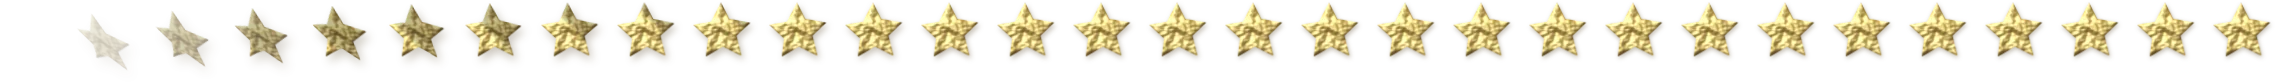
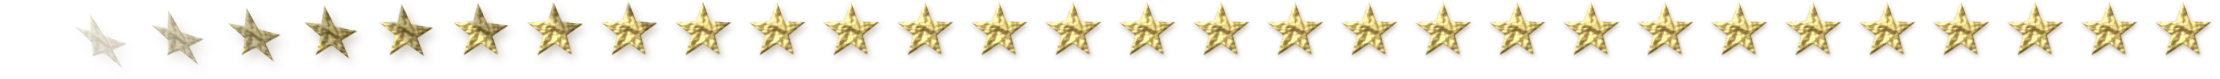
Brass star on the foil star's even, crisp outline
Claude-Session: https://claude.ai/code/session_01GtdkSXonN3BwzFbvEnYC89

Changed region(s): [[0.0622, 0.1266, 1.0, 0.7089], [0.1243, 0.1772, 0.1554, 0.2025]]

diff --git a/app/index.html b/app/index.html
@@ -210,10 +210,10 @@
      room, so nothing moves. assets/star-stick.webp is 30 frames (made once from a 3D model of a bending sticker:
      one corner touches, then a curl is smoothed flat), the last of them the star at rest */
   #allDone { position: relative; display: inline-block; width: 0; height: 0; vertical-align: top; }
-  #allDone i { position: absolute; left: 5.78px; top: -3px; width: 38px; height: 41px; pointer-events: none;
-    background: url(assets/star-stick.webp) -1102px 0 / 1140px 41px no-repeat; }
+  #allDone i { position: absolute; left: 5.78px; top: -2.5px; width: 37px; height: 39.5px; pointer-events: none;
+    background: url(assets/star-stick.webp) -1073px 0 / 1110px 39.5px no-repeat; }
   #allDone i.go { animation: stuckOn 1000ms steps(29) both; }
-  @keyframes stuckOn { from { background-position: 0 0; } to { background-position: -1102px 0; } }
+  @keyframes stuckOn { from { background-position: 0 0; } to { background-position: -1073px 0; } }
   @media (prefers-reduced-motion: reduce) { #allDone i.go { animation: none; } }
   #notes {
     flex: 1; outline: none; overflow-y: auto; cursor: text; caret-color: transparent; white-space: pre-wrap;
